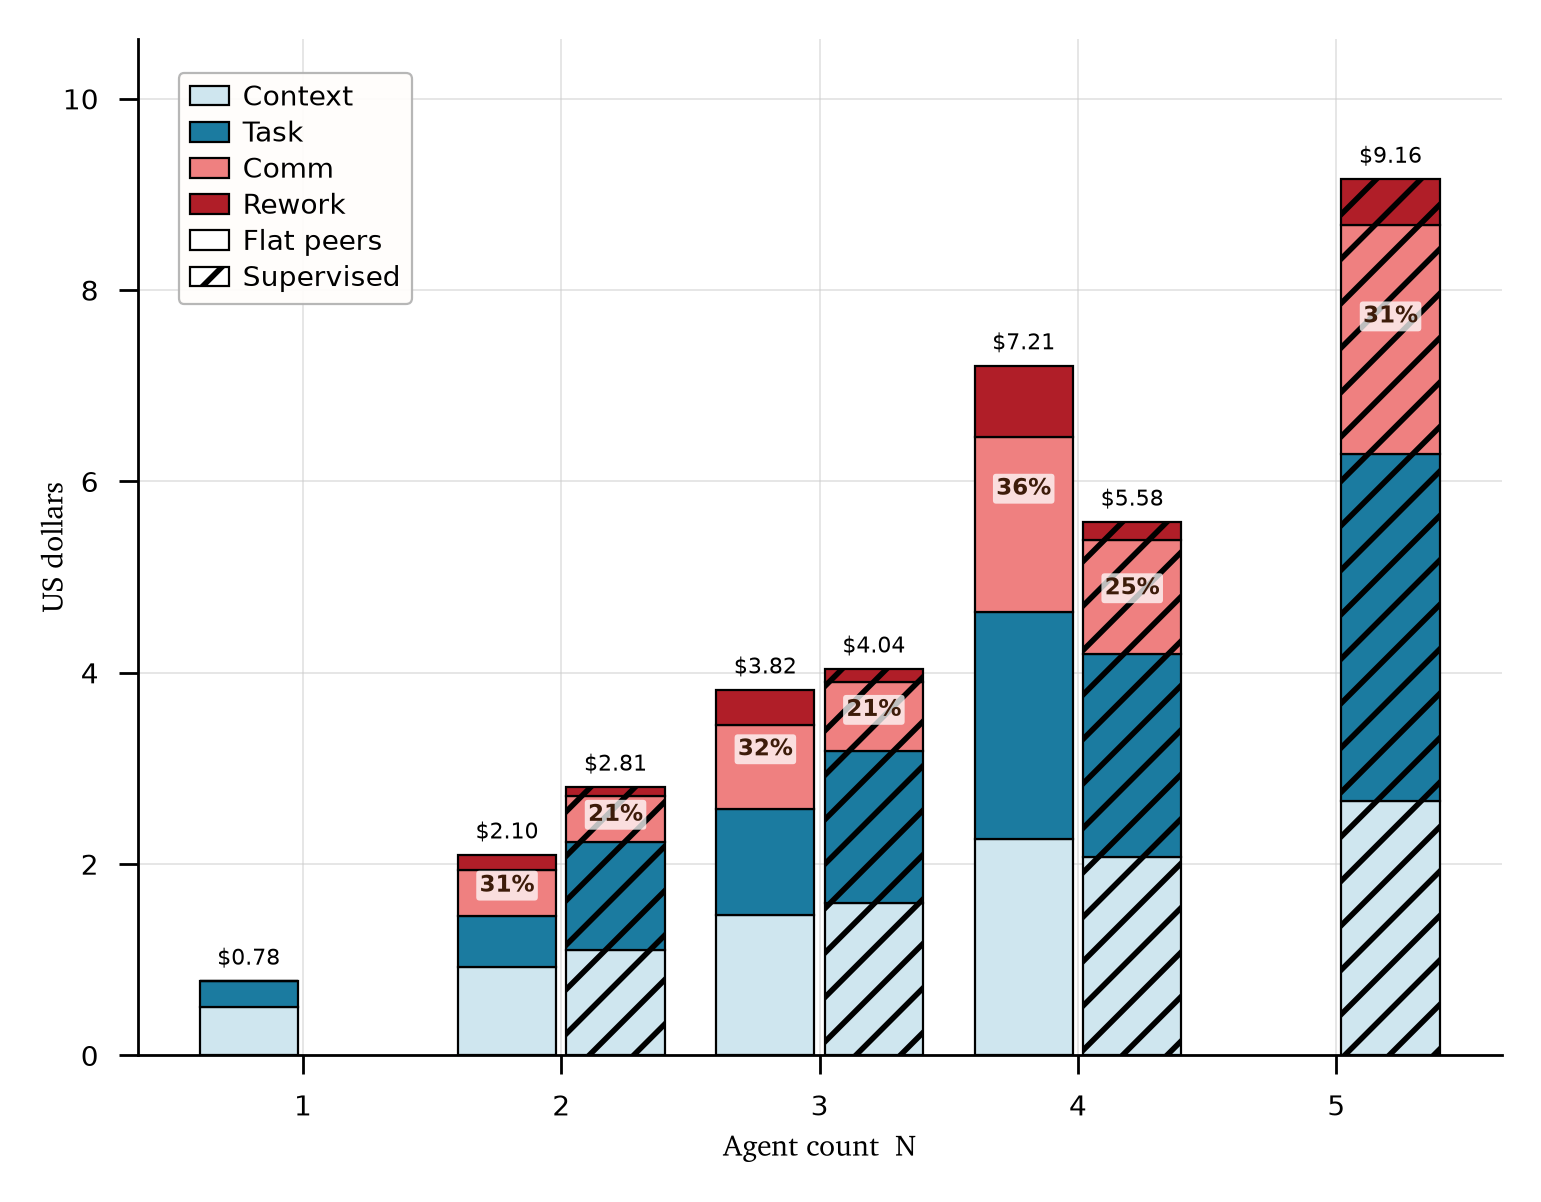
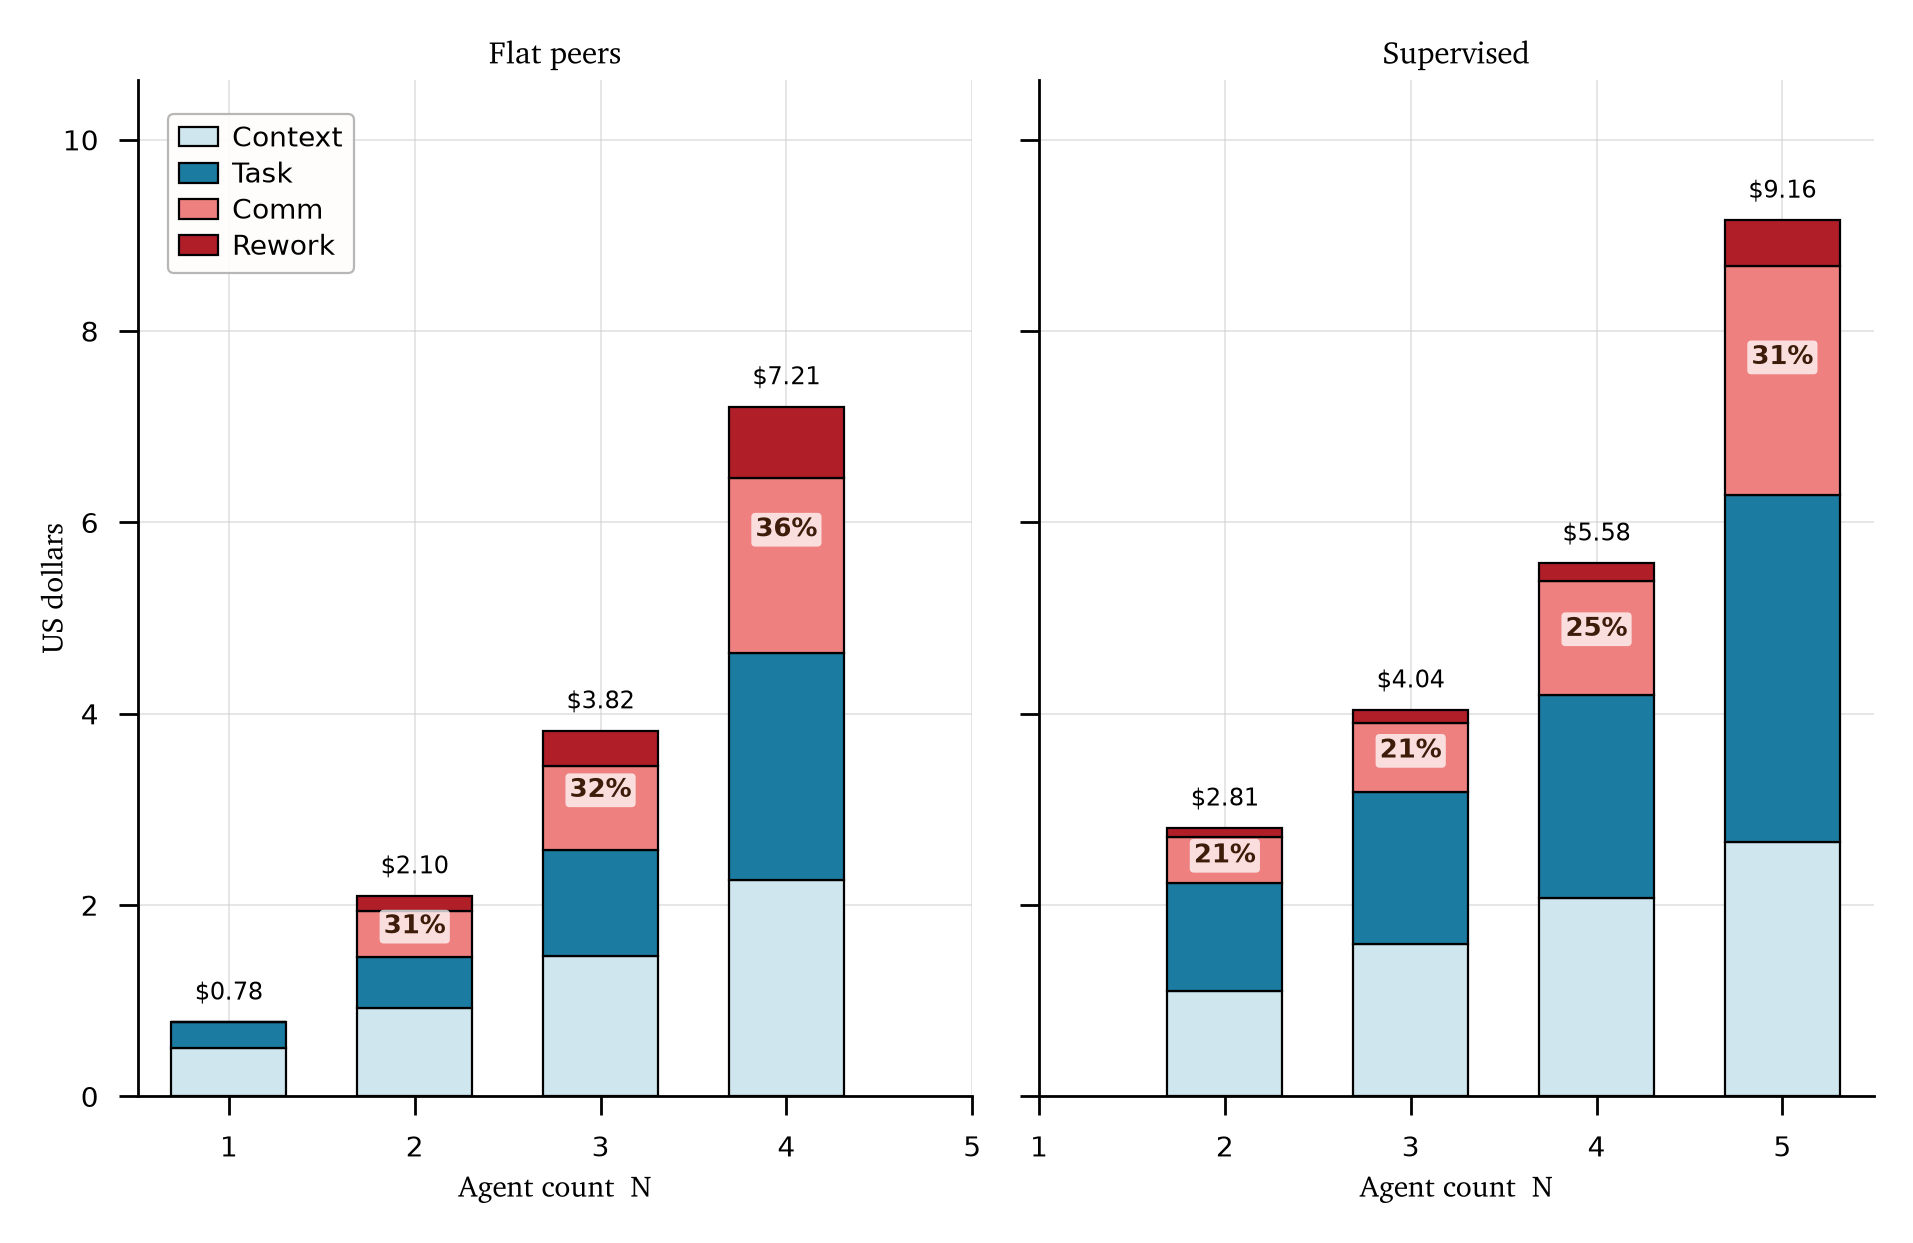
fig3c: small multiples instead of hatched paired bars
The diagonal hatch used to mark the supervised arm fought with the
four-account fills and made the stack hard to read. Split into one
panel per topology on a shared y-axis instead: the arms are compared
by bar height, identity comes from the panel title, and the account
ramp is left clean. Empty tick slots are kept on purpose — they show
the two arms span different team sizes.

diff --git a/masters_thesis/leader_analysis/figures.py b/masters_thesis/leader_analysis/figures.py
@@ -256,42 +256,43 @@ def figure3b(recs):
 # =========================================================================
 # FIGURE 3c — cost accounts by topology (where each one spends)
 # =========================================================================
-# Stacked $ accounts per team size, flat (left of each pair) vs supervised
-# (right), in fig2d's ramp: cool = base work you would pay anyway (context
-# floor, then task), warm = the coordination tax (comm + the rework it
-# provokes). The label on the warm cap is that tax's share of the run.
+# Small multiples: one panel per topology, shared y-axis, so the two are
+# compared by bar height rather than by a texture overlaid on the fills.
+# Within each bar, fig2d's ramp: cool = base work you would pay anyway
+# (context floor, then task), warm = the coordination tax (comm + the rework
+# it provokes). The label on the warm cap is that tax's share of the run.
 def figure3c(accts):
     dec = calc6_accounts(accts)
-    sizes = sorted({n for _, n in dec})
-    w = 0.38
-    fig, ax = plt.subplots(figsize=(4.4, 3.3))
-    for off, arm, hatch in ((-w / 2 - 0.02, "flat", None), (w / 2 + 0.02, "leader", "///")):
-        xs, bottoms = [], {}
-        for n in sizes:
-            if (arm, n) in dec:
-                xs.append(n); bottoms[n] = 0.0
+    panels = [("flat", "Flat peers"), ("leader", "Supervised")]
+    ymax = max(v["total"] for v in dec.values()) * 1.16
+
+    fig, axes = plt.subplots(1, 2, figsize=(5.6, 3.3), sharey=True)
+    for ax, (arm, title) in zip(axes, panels):
+        xs = sorted(n for (a, n) in dec if a == arm)
+        bottoms = {n: 0.0 for n in xs}
         for _label, key, colour in ACCOUNTS:
             hs = [dec[(arm, n)][key] for n in xs]
-            ax.bar([x + off for x in xs], hs, bottom=[bottoms[n] for n in xs], width=w,
-                   color=colour, edgecolor="black", linewidth=0.4, zorder=3, hatch=hatch)
+            ax.bar(xs, hs, bottom=[bottoms[n] for n in xs], width=0.62,
+                   color=colour, edgecolor="black", linewidth=0.4, zorder=3)
             for n, h in zip(xs, hs):
                 bottoms[n] += h
         for n in xs:
             tot = dec[(arm, n)]["total"]
-            ax.annotate(f"${tot:.2f}", (n + off, tot), textcoords="offset points", xytext=(0, 2),
-                        ha="center", va="bottom", fontsize=4.0, color="black", fontname="Helvetica")
+            ax.annotate(f"${tot:.2f}", (n, tot), textcoords="offset points", xytext=(0, 3),
+                        ha="center", va="bottom", fontsize=4.4, color="black", fontname="Helvetica")
             cap = dec[(arm, n)]["comm"] + dec[(arm, n)]["rework"]
             if cap > 0:
-                ax.annotate(f"{dec[(arm, n)]['comm_rework_share']*100:.0f}%", (n + off, tot - cap / 2),
-                            ha="center", va="center", fontsize=4.2, color="#3d1c0a", fontweight="bold",
+                ax.annotate(f"{dec[(arm, n)]['comm_rework_share']*100:.0f}%", (n, tot - cap / 2),
+                            ha="center", va="center", fontsize=4.6, color=INK, fontweight="bold",
                             fontname="Helvetica",
-                            bbox=dict(boxstyle="round,pad=0.14", fc="white", ec="none", alpha=0.75))
-    ax.set_ylim(0, max(v["total"] for v in dec.values()) * 1.16)
+                            bbox=dict(boxstyle="round,pad=0.16", fc="white", ec="none", alpha=0.75))
+        ax.set_ylim(0, ymax)
+        _fig2_chrome(fig, ax, sorted({n for (_a, n) in dec}), "US dollars")
+        ax.set_title(title, fontsize=5.6, color="black", fontname="Charter", pad=3)
+    axes[1].set_ylabel("")  # shared axis: label once, on the left
     handles = [Patch(facecolor=c, edgecolor="black", linewidth=0.4, label=lbl) for lbl, _k, c in ACCOUNTS]
-    handles += [Patch(facecolor="white", edgecolor="black", linewidth=0.4, label="Flat peers"),
-                Patch(facecolor="white", edgecolor="black", linewidth=0.4, hatch="///", label="Supervised")]
-    _fig2_chrome(fig, ax, sizes, "US dollars")
-    _fig2_legend(ax, handles, loc="upper left", bbox=(0.02, 0.98))
+    _fig2_legend(axes[0], handles, loc="upper left", bbox=(0.02, 0.98))
+    fig.subplots_adjust(wspace=0.08)
     return _save(fig, "fig3c_accounts_topology.png", facecolor="white")
 
 
